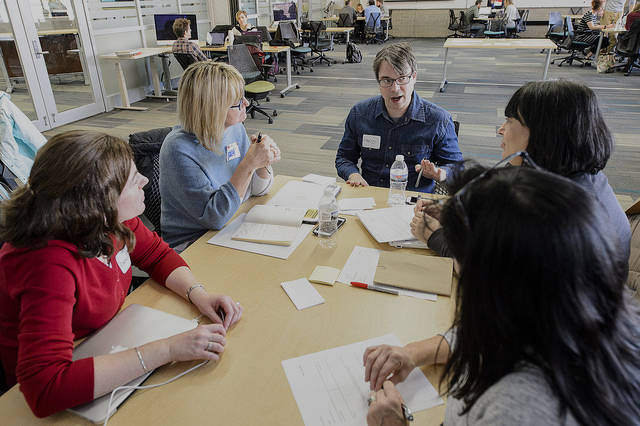
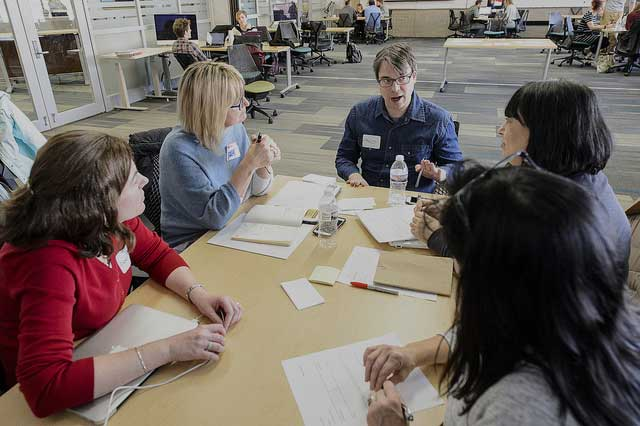
optimize image file sizes

diff --git a/assets/css/styles.css b/assets/css/styles.css
@@ -8546,10 +8546,10 @@ section {
         background: url(../img/thumbnails/blogthumb2.jpg) no-repeat;
         background-size: cover; }
       .blogs .blogpost-wrap .blogpost.three .thumb {
-        background: url(../img/thumbnails/blogthumb3.png) no-repeat;
+        background: url(../img/thumbnails/blogthumb3.jpg) no-repeat;
         background-size: cover; }
       .blogs .blogpost-wrap .blogpost.four .thumb {
-        background: url(../img/thumbnails/blogthumb4.png) no-repeat;
+        background: url(../img/thumbnails/blogthumb4.jpg) no-repeat;
         background-size: cover; }
       .blogs .blogpost-wrap .blogpost h3 {
         font-weight: 500;

diff --git a/assets/scss/_layout.scss b/assets/scss/_layout.scss
@@ -129,13 +129,13 @@ section {
       }
       &.three {
         .thumb {
-          background:url(../img/thumbnails/blogthumb3.png) no-repeat;
+          background:url(../img/thumbnails/blogthumb3.jpg) no-repeat;
           background-size: cover;
         }
       }
       &.four {
         .thumb {
-          background:url(../img/thumbnails/blogthumb4.png) no-repeat;
+          background:url(../img/thumbnails/blogthumb4.jpg) no-repeat;
           background-size: cover;
         }
       }
